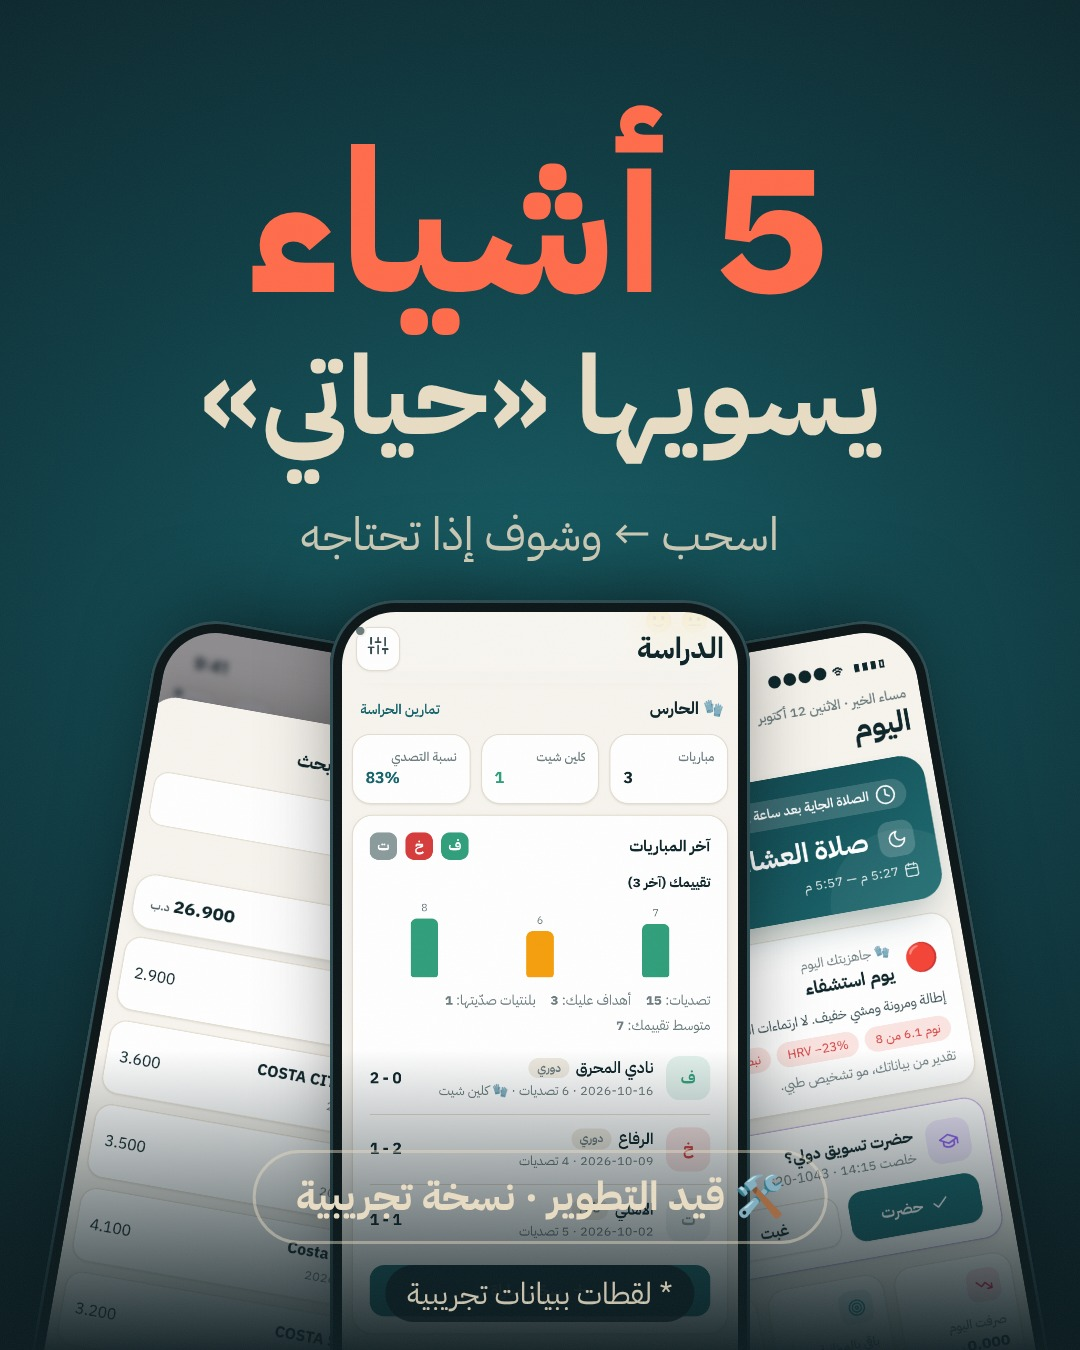
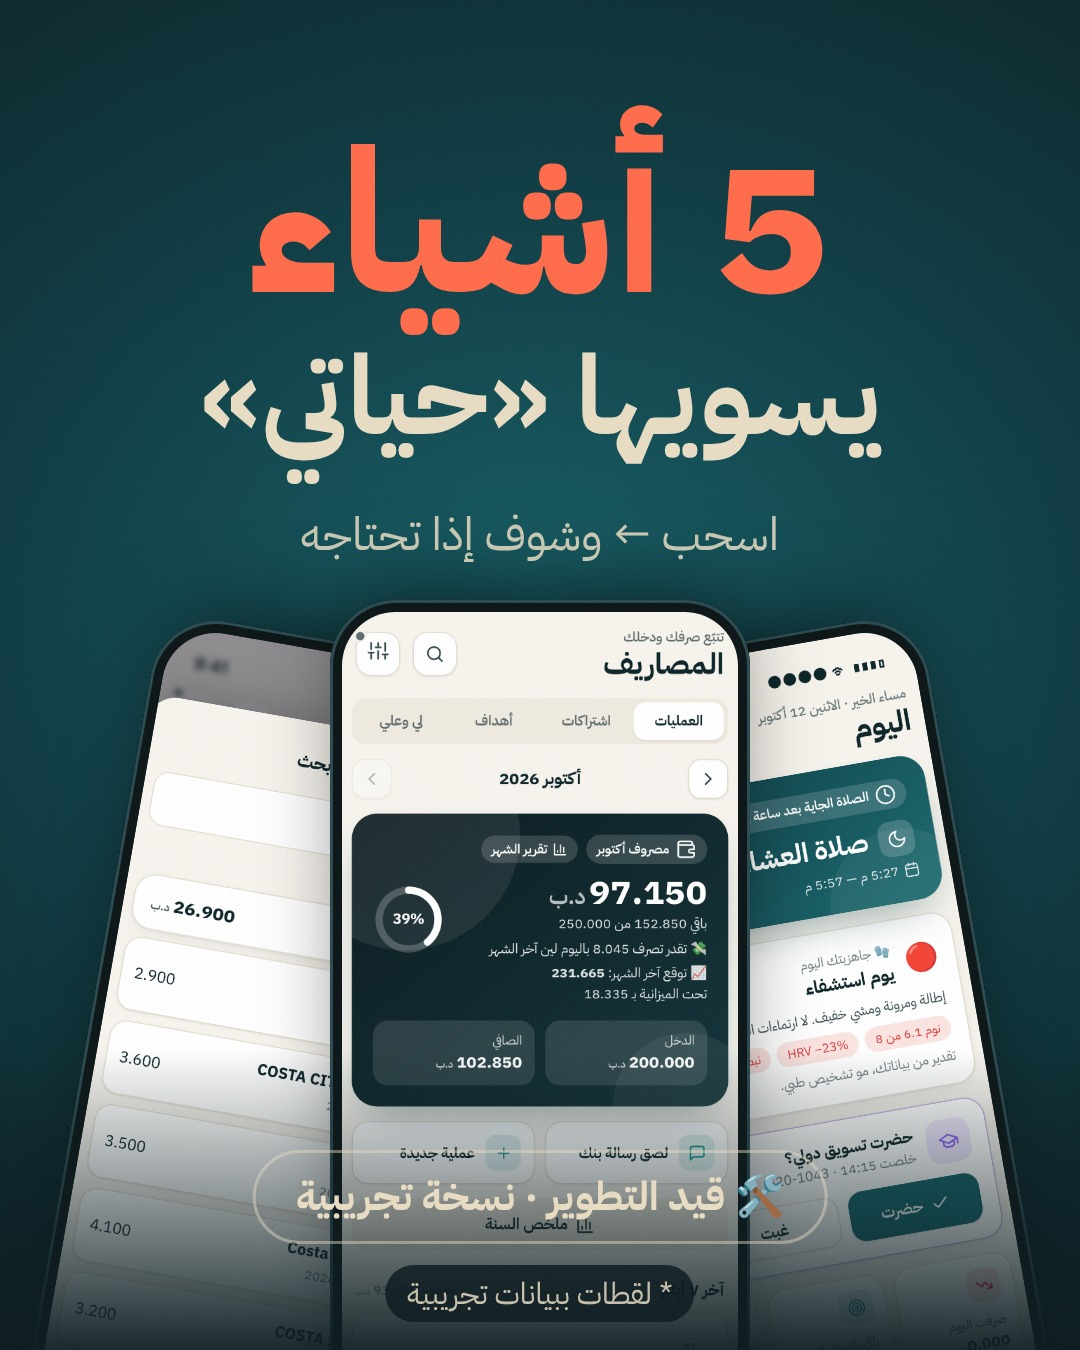
Instagram: highlight stories in posting order, general-audience content (goalkeeper highlight and slide removed)
Claude-Session: https://claude.ai/code/session_01AXqw1919FcrLaaxuJmUf2G

diff --git a/videos/hayati-insta/highlight-stories/build.js b/videos/hayati-insta/highlight-stories/build.js
@@ -1,0 +1,48 @@
+// ستوريات أبرز القصص «حياتي» — node build.js → out/*.jpg (1080×1920)
+// مرقّمة بترتيب النشر: إنستقرام يحط آخر هايلايت انضاف له أول، فننشر «الجديد» آخر شي
+const { chromium } = require('/home/user/claude/hayati-app/node_modules/@playwright/test');
+const path = require('path'), fs = require('fs');
+const U = (p) => 'file://' + path.resolve(__dirname, p);
+const SH = '../../hayati-share/shots/', RAW = '../../../hayati-app/store/raw/';
+const ICON = fs.readFileSync(path.resolve(__dirname, '../../../hayati-app/brand/icon-square.svg'), 'utf8');
+const S = [
+  // [ملف، هايلايت، عنوان، سطر، صورة، ملاحظة]
+  ['01-اقتراحاتكم-1', 'اقتراحاتكم 💬', 'وش الميزة <b>اللي تبيها؟</b>', 'حط ملصق «أسئلة» هني، وكل اقتراح ينقرا', null, 'ask'],
+  ['02-اقتراحاتكم-2', 'اقتراحاتكم 💬', 'وش تنساه <b>أكثر؟</b>', 'حط ملصق «تصويت» هني: الاختبارات · الاشتراكات · الصلاة', null, 'poll'],
+  ['03-الميزات-1', 'الميزات ✨', 'يومك <b>بشاشة وحدة</b>', 'المحاضرات، الصلاة، المهام، ومصروف اليوم', RAW + '01_today.png'],
+  ['04-الميزات-2', 'الميزات ✨', 'مصاريفك <b>وميزانيتك</b>', '«تقدير» لوين بتوصل آخر الشهر', RAW + '02_money.png'],
+  ['05-الميزات-3', 'الميزات ✨', 'كم صرفت <b>على كوستا؟</b>', 'اكتب اسم المحل، ويطلع لك المجموع', RAW + '03_search.png'],
+  ['06-الميزات-4', 'الميزات ✨', 'جدولك <b>الأسبوعي</b>', 'محاضرة، تمرين، أو دوام', RAW + '04_schedule.png'],
+  ['07-الجديد-1', 'الجديد 🆕', 'شارك رسالة البنك <b>لحياتي</b>', 'اضغط مطوّل ← مشاركة ← حياتي ← «إضافة»', SH + 'shared.png', null, 'على أندرويد · نسخة أندرويد قيد التجربة'],
+  ['08-الجديد-2', 'الجديد 🆕', '<b>انضافت</b> ✓', 'وما نقرا رسايلك: أنت اللي تشارك', SH + 'added.png'],
+];
+const css = `@font-face{font-family:P;src:url(${U('../IBMPlexSansArabic-Bold.ttf')});font-weight:700}@font-face{font-family:P;src:url(${U('../IBMPlexSansArabic-Regular.ttf')});font-weight:400}
+*{box-sizing:border-box}html,body{margin:0;width:1080px;height:1920px;overflow:hidden;font-family:P;font-weight:700;color:#E8DCC4}
+.bg{position:absolute;inset:0;background:radial-gradient(110% 70% at 50% 30%,#155c64 0%,#0E3B43 45%,#0A1A1E 100%)}
+.chip{position:absolute;top:260px;left:0;right:0;text-align:center}.chip span{display:inline-block;padding:12px 34px;border-radius:999px;background:rgba(232,220,196,.12);font:400 36px P}
+h1{position:absolute;top:350px;left:60px;right:60px;margin:0;text-align:center;font-size:96px;line-height:1.12}h1 b{color:#FF6B4A}
+p{position:absolute;top:580px;left:90px;right:90px;margin:0;text-align:center;font:400 44px/1.45 P;color:rgba(232,220,196,.85)}
+.ph{position:absolute;left:290px;top:770px;width:500px;height:900px;border-radius:64px;background:#0b1416;padding:12px;box-shadow:0 50px 90px -40px rgba(0,0,0,.7),inset 0 0 0 3px #2a4a50;overflow:hidden}
+.ph img{width:100%;height:100%;object-fit:cover;object-position:top;border-radius:52px;display:block}
+.fade{position:absolute;left:290px;width:500px;top:1520px;height:150px;border-radius:0 0 64px 64px;background:linear-gradient(transparent,rgba(10,26,30,.92))}
+.tag{position:absolute;top:690px;z-index:2;left:0;right:0;text-align:center}.tag span{display:inline-block;padding:8px 24px;border-radius:999px;background:#FF6B4A;color:#2A0E07;font:400 30px P}
+.demo{position:absolute;top:1700px;left:0;right:0;text-align:center;font:400 30px P;color:rgba(232,220,196,.7)}
+.h{position:absolute;top:1755px;left:0;right:0;text-align:center;font:400 32px P;direction:ltr}
+.box{position:absolute;left:150px;right:150px;top:780px;height:560px;border:4px dashed rgba(232,220,196,.35);border-radius:48px;display:grid;place-items:center;text-align:center;font:400 40px/1.5 P;color:rgba(232,220,196,.6)}
+.logo{position:absolute;left:465px;top:1450px;width:150px;height:150px;border-radius:36px;overflow:hidden}.logo svg{width:100%;height:100%}`;
+const page = ([, hl, h, sub, img, sticker, tag]) => `<!doctype html><html dir="rtl"><head><meta charset="utf-8"><style>${css}</style></head><body><div class="bg"></div>
+<div class="chip"><span>${hl}</span></div><h1>${h}</h1><p>${sub}</p>
+${img ? `<div class="ph"><img src="${U(img)}"></div><div class="fade"></div>` : `<div class="box">${sticker === 'poll' ? 'ملصق التصويت هني 👆' : 'ملصق «اسألني» هني 👆'}</div><div class="logo">${ICON}</div>`}
+${tag ? `<div class="tag"><span>${tag}</span></div>` : ''}
+${img ? '<div class="demo">* لقطات ببيانات تجريبية · قيد التطوير</div>' : '<div class="demo">قيد التطوير · نسخة تجريبية</div>'}<div class="h">@hayati.bh</div></body></html>`;
+(async () => {
+  fs.mkdirSync(path.join(__dirname, 'out'), { recursive: true });
+  const b = await chromium.launch({ executablePath: '/opt/pw-browsers/chromium' });
+  const p = await b.newPage({ viewport: { width: 1080, height: 1920 } });
+  const tmp = path.join(__dirname, '.tmp.html');
+  for (const s of S) {
+    fs.writeFileSync(tmp, page(s)); await p.goto('file://' + tmp, { waitUntil: 'load' }); await p.evaluate(() => document.fonts.ready); await p.waitForTimeout(150);
+    await p.screenshot({ path: path.join(__dirname, 'out', s[0] + '.jpg'), type: 'jpeg', quality: 92 });
+  }
+  fs.unlinkSync(tmp); await b.close(); console.log(S.length);
+})();

diff --git a/videos/hayati-insta/build-week1.js b/videos/hayati-insta/build-week1.js
@@ -23,7 +23,7 @@ const FIVE = [
   ['hayati-promo-v2/shots/02_money.png', 'بتكمّل الشهر', 'بالميزانية؟', '«تقدير» لآخر الشهر من صرفك لين اليوم'],
   ['hayati-promo-v2/shots/01_today.png', 'وش عندك', 'اليوم؟', 'محاضراتك وأوقات الصلاة بشاشة وحدة'],
   ['hayati-dev-shots/s_goals.png', 'جاهز', 'للاختبار؟', '«تقدير» جاهزيتك من المواضيع اللي خلصتها'],
-  ['hayati-dev-shots/gk.png', 'حارس', 'مرمى؟', 'مبارياتك، الكلين شيت، ونسبة التصدي'],
+  ['hayati-share/shots/added.png', 'وصلتك رسالة', 'البنك؟', 'الصقها أو شاركها لحياتي، وراجعها قبل «إضافة»'],
 ];
 PAGES['a1-five-cover.jpg'] = [W, H, BASE(W, H) + `<div class="sea"></div>
 ${[[-250, 640, 10, 0], [250, 640, -10, 2], [0, 600, 0, 4]].map(([x, y, r, i]) => `<div class="phone" style="left:50%;top:${y}px;width:420px;height:910px;margin-left:${-210 + x}px;transform:rotate(${r}deg);padding:12px;border-radius:66px"><img style="border-radius:54px" src="${shot(FIVE[i][0])}"></div>`).join('')}
@@ -137,7 +137,7 @@ PAGES['s3-story-tests.jpg'] = [W, SH, BASE(W, SH) + `<div class="sea"></div>
   const block = (h) => { const i = cap.indexOf(h); return cap.slice(cap.indexOf('```', i) + 4, cap.indexOf('```', cap.indexOf('```', i) + 3)).trim(); };
   const GROUPS = [
     ['1-الخميس15-ستوري-تصويت', ['s1-story-poll.jpg'], 'ستوري (بدون كابشن)\n\nحط ملصق «تصويت» بالمربع المنقط:\nالسؤال: وش تنساه أكثر؟\nالخيارات: الاختبارات 📝 / الاشتراكات 💳'],
-    ['2-الجمعة16-كاروسيل-5-أشياء', ['a1-five-cover.jpg', 'a2-five-1.jpg', 'a3-five-2.jpg', 'a4-five-3.jpg', 'a5-five-4.jpg', 'a6-five-5.jpg', 'a7-five-cta.jpg'], block('## كاروسيل «5 أشياء»') + '\n\n---\nAlt text:\nلقطات من تطبيق حياتي: البحث عن المصاريف، توقع الميزانية، جدول اليوم والصلاة، جاهزية الاختبار، وإحصائيات حارس المرمى.'],
+    ['2-الجمعة16-كاروسيل-5-أشياء', ['a1-five-cover.jpg', 'a2-five-1.jpg', 'a3-five-2.jpg', 'a4-five-3.jpg', 'a5-five-4.jpg', 'a6-five-5.jpg', 'a7-five-cta.jpg'], block('## كاروسيل «5 أشياء»') + '\n\n---\nAlt text:\nلقطات من تطبيق حياتي: البحث عن المصاريف، توقع الميزانية، جدول اليوم والصلاة، جاهزية الاختبار، ورسالة البنك المشاركة.'],
     ['3-السبت17-ستوري-أسئلة', ['s2-story-ask.jpg'], 'ستوري (بدون كابشن)\n\nحط ملصق «أسئلة» بالمربع المنقط:\nاكتب الميزة 👇'],
     ['4-الاثنين19-ستوري-كواليس', ['s3-story-tests.jpg'], 'ستوري (بدون كابشن)\n\nبدون ملصق، أو ملصق «رابط» لو اشتغل رابط التطبيق.'],
     ['5-الجمعة23-كاروسيل-التذكيرات', ['b1-remind-cover.jpg', 'b2-remind-evening.jpg', 'b3-remind-examday.jpg', 'b4-remind-subs.jpg', 'b5-remind-control.jpg'], block('## كاروسيل «التذكيرات الذكية»')],

diff --git a/videos/hayati-insta/profile-kit/mockup.js b/videos/hayati-insta/profile-kit/mockup.js
@@ -4,7 +4,7 @@ const path = require('path'), fs = require('fs');
 const R = (p) => 'file://' + path.resolve(__dirname, '..', p);
 const F = R('IBMPlexSansArabic-Bold.ttf'), F2 = R('IBMPlexSansArabic-Regular.ttf');
 const bio = fs.readFileSync(path.join(__dirname, 'bio.txt'), 'utf8').trim().split('\n');
-const HL = [['الجديد', 'out/highlight-updates.png'], ['الميزات', 'out/highlight-features.png'], ['جرّبه', 'out/highlight-try.png'], ['اقتراحاتكم', 'out/highlight-ideas.png'], ['الحارس', 'out/highlight-keeper.png']];
+const HL = [['الجديد', 'out/highlight-updates.png'], ['الميزات', 'out/highlight-features.png'], ['جرّبه', 'out/highlight-try.png'], ['اقتراحاتكم', 'out/highlight-ideas.png']];
 // الأحدث أول (الترتيب اللي يبين بالشبكة)، 📌 = مثبّت
 const NOW = [['out/post-1-intro.jpg', 1], ['out/week1/a1-five-cover.jpg', 1], ['out/post-3-ideas.jpg', 1], ['out/week1/b1-remind-cover.jpg'], ['out/post-5-honesty.jpg'], ['out/post-2-features.jpg']];
 const LATER = [['../insta-reels/04-share/cover.jpg', 1, 1], ['../insta-reels/01-hayati-motion/cover.jpg', 1, 1], ['out/post-1-intro.jpg', 1], ['../insta-reels/03-bank-sms/cover.jpg', 0, 1], ['../insta-reels/02-hayati-promo/cover.jpg', 0, 1], ['out/post-3-ideas.jpg'], ['out/week1/b1-remind-cover.jpg'], ['out/week1/a1-five-cover.jpg'], ['out/post-5-honesty.jpg']];

diff --git a/videos/hayati-insta/highlight-stories/README.md b/videos/hayati-insta/highlight-stories/README.md
@@ -1,0 +1,19 @@
+# ستوريات أبرز القصص «حياتي»
+
+8 ستوريات (1080×1920) بلقطات حقيقية ببيانات تجريبية. **انشرها بترتيب الأرقام**: إنستقرام يحط الهايلايت اللي آخر واحد انضاف له أول، فـ«الجديد» ينشر آخر شي عشان يطلع أول دائرة.
+
+| # | الملف | الهايلايت | ملاحظة |
+|---|---|---|---|
+| 1 | `01-اقتراحاتكم-1.jpg` | اقتراحاتكم | حط ملصق «اسألني» بالمربع |
+| 2 | `02-اقتراحاتكم-2.jpg` | اقتراحاتكم | حط ملصق «تصويت»: الاختبارات · الاشتراكات · الصلاة |
+| 3 | `03-الميزات-1.jpg` | الميزات | يومك بشاشة وحدة |
+| 4 | `04-الميزات-2.jpg` | الميزات | المصاريف والميزانية |
+| 5 | `05-الميزات-3.jpg` | الميزات | البحث «كم صرفت على كوستا؟» |
+| 6 | `06-الميزات-4.jpg` | الميزات | الجدول الأسبوعي |
+| 7 | `07-الجديد-1.jpg` | الجديد | شارك رسالة البنك (أندرويد قيد التجربة) |
+| 8 | `08-الجديد-2.jpg` | الجديد | «انضافت ✓» |
+
+**الطريقة:** انشر الستوري ← «تمييز» (Highlight) ← أول مرة: «جديد» واكتب الاسم ← بعدها اختار نفس الهايلايت للستوريات اللي بعدها ← «تعديل الهايلايت» ← «تعديل الغلاف» ← غلافه من `../profile-kit/`.
+**«جرّبه»** ينضاف لما ينفتح رابط التجربة. **الحارس** انشال (المحتوى لعامة الناس).
+
+`node build.js` يعيد رسمها.

diff --git a/docs/company/DECISIONS.md b/docs/company/DECISIONS.md
@@ -39,3 +39,4 @@
 | 2026-10-13 | DW-010 | مع كل جولة فيها تغيير بالتطبيق: فيديو تطوير 15–25 ث (ديوانية سريعة ← videos/hayati-dev/DW-0XX/) يوصل للمالك مع الـ PR | Owner | طلب المالك: «مع كل تطوير ارسل فيديو تطوير»؛ الفيديو ما ينشر بأي حساب، المالك ينشره |
 | 2026-10-13 | DW-010 | قبل كل جولة: خطة معلنة (بقسم «الجولة الجاية» بـ BACKLOG.md من الجولة اللي قبلها) + أول رسالة بالجولة «📋 خطة الجولة» وإشعار، بعدين التطوير | Owner | طلب المالك: «قبل التطوير اخبرني ماذا بتفعل»؛ يقدر يغيّر الخطة قبلها بيومين |
 | 2026-10-14 | DW-004 | الريلز تنزل الحين مع ترتيب الحساب، بدون انتظار رابط الاختبار (يعدّل قرار CMO السابق) | Owner | طلب المالك: «مع الريلزات»؛ الكابشن يظل «قيد التطوير · نسخة تجريبية» وبدون أي موعد |
+| 2026-10-14 | DW-004 | المحتوى والتسويق لعامة المجتمع: بدون تركيز على حارس المرمى (لا هايلايت ولا شريحة ولا هاشتاق)؛ الميزة تظل بالتطبيق | Owner | طلب المالك: «لغي حارس المرمى… من اجل كون التطبيق للعامة المجتمع» |

diff --git a/videos/hayati-insta/week1-captions.md b/videos/hayati-insta/week1-captions.md
@@ -23,7 +23,7 @@
 2⃣ «تقدير» لآخر الشهر: بتكمّل بالميزانية أو لا
 3⃣ محاضراتك وأوقات الصلاة بشاشة وحدة
 4⃣ «تقدير» جاهزيتك للاختبار من المواضيع اللي خلصتها
-5⃣ للحراس: المباريات، الكلين شيت، ونسبة التصدي 🧤
+5⃣ رسالة البنك: الصقها أو شاركها لحياتي، وراجعها قبل «إضافة» 💳
 
 والسادس؟ أنت تقرره. اكتب الميزة اللي تبيها بالتعليقات 👇
 🔖 احفظ البوست
@@ -33,7 +33,7 @@
 
 #البحرين #طلاب_الجامعة #تطبيقات #ميزانية
 ```
-**Alt text** (إعدادات متقدمة ← إمكانية الوصول): `لقطات من تطبيق حياتي: البحث عن المصاريف، توقع الميزانية، جدول اليوم والصلاة، جاهزية الاختبار، وإحصائيات حارس المرمى.`
+**Alt text** (إعدادات متقدمة ← إمكانية الوصول): `لقطات من تطبيق حياتي: البحث عن المصاريف، توقع الميزانية، جدول اليوم والصلاة، جاهزية الاختبار، ورسالة البنك المشاركة.`
 
 ---
 

diff --git a/docs/company/tickets/DW-004.md b/docs/company/tickets/DW-004.md
@@ -12,6 +12,8 @@
 
 - 2026-10-14 · **Owner:** الريلز تنزل الحين مع ترتيب الحساب، بدون انتظار رابط الاختبار (يعدّل قرار CMO السابق) — طلب المالك: «مع الريلزات»؛ الكابشن يظل «قيد التطوير · نسخة تجريبية» وبدون أي موعد
 
+- 2026-10-14 · **Owner:** المحتوى والتسويق لعامة المجتمع: بدون تركيز على حارس المرمى (لا هايلايت ولا شريحة ولا هاشتاق)؛ الميزة تظل بالتطبيق — طلب المالك: «لغي حارس المرمى… من اجل كون التطبيق للعامة المجتمع»
+
 ## خطة التنفيذ
 
 ## التسليم والتحقق

diff --git a/videos/hayati-insta/profile-kit/README.md b/videos/hayati-insta/profile-kit/README.md
@@ -18,7 +18,6 @@
 | 2 | الميزات | `highlight-2-الميزات.png` | ستوري لكل ميزة |
 | 3 | جرّبه | `highlight-3-جرّبه.png` | كيف تنضم للتجربة (لما ينفتح الرابط) |
 | 4 | اقتراحاتكم | `highlight-4-اقتراحاتكم.png` | ستوري التصويت والأسئلة وردودك |
-| 5 | الحارس | `highlight-5-الحارس.png` | قسم حارس المرمى |
 
 الطريقة: انشر ستوري ← «إضافة لأبرز القصص» ← الاسم ← «تعديل الغلاف» ← اختار الصورة.
 
